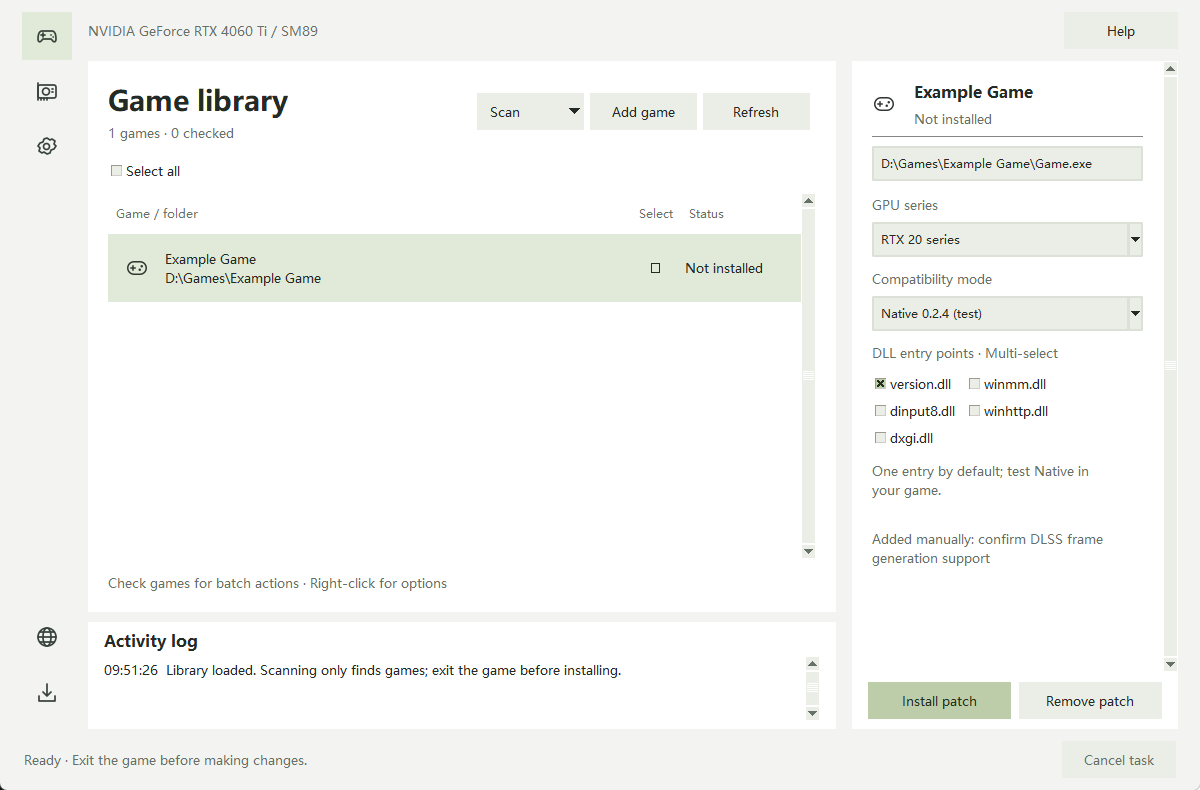
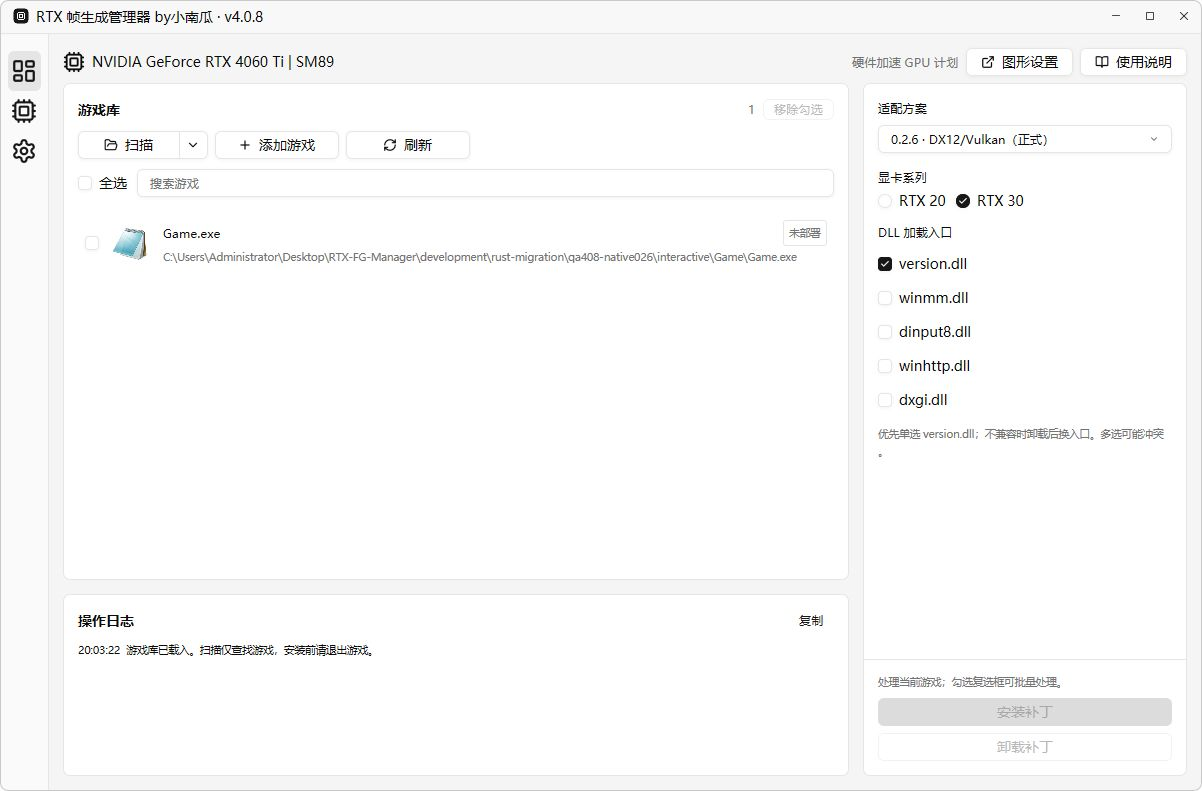
Document Rust GPUI manager 4.0.8 and Native 0.2.6 compatibility

diff --git a/README.md b/README.md
@@ -2,6 +2,8 @@
 
 [English](README.md) · [简体中文](README.zh-CN.md)
 
+The screenshot shows the Chinese interface; English and three other UI languages are available in Settings.
+
 <p align="center">
   <img src="docs/screenshot-home.png" alt="RTX Frame Generation Manager home screen" width="820" />
 </p>
@@ -9,63 +11,80 @@
   <a href="https://github.com/pandaligx/RTX-FG-Manager/releases/latest"><img alt="release" src="https://img.shields.io/github/v/release/pandaligx/RTX-FG-Manager"></a>
   <a href="https://github.com/pandaligx/RTX-FG-Manager/releases/latest"><img alt="downloads" src="https://img.shields.io/github/downloads/pandaligx/RTX-FG-Manager/total"></a>
   <img alt="platform" src="https://img.shields.io/badge/platform-Windows_x64-0078D6?logo=windows&logoColor=white">
-  <img alt="language" src="https://img.shields.io/badge/language-Python-3776AB?logo=python&logoColor=white">
+  <img alt="language" src="https://img.shields.io/badge/language-Rust-DEA584?logo=rust&logoColor=white">
   <a href="LICENSE"><img alt="manager license" src="https://img.shields.io/badge/manager_license-MIT-blue"></a>
 </p>
 
-A Windows desktop tool for managing RTX 20/30 frame-generation compatibility patches. This is a **binary distribution repository**: releases, documentation, screenshots, update metadata and publishing automation. Manager source code is not published here. Third-party components retain their own licenses.
+A Windows frame-generation patch manager for RTX 20/30 GPUs, built with a **Rust core and native GPUI interface**. This is a **binary distribution repository** containing releases, documentation, screenshots and update assets. Manager source code is not published; third-party components retain their own licenses.
 
 ## Download
 
 - [GitHub Releases](https://github.com/pandaligx/RTX-FG-Manager/releases/latest)
-- [Gitee Releases · China mirror](https://gitee.com/pandaligx/RTX-FG-Manager/releases)
+- [Gitee Releases — China mirror](https://gitee.com/pandaligx/RTX-FG-Manager/releases)
 
-Download the signed `RTXManager-v<version>-x64.exe` from a published release and run it. Python and aria2 do not need a separate installation. Release notes describe the changes and any known limitations. A release is available only after its EXE and update manifest have been uploaded; development candidates are not releases.
+Run the signed `RTXManager-v<version>-x64.exe` directly on Windows 10/11 x64. No Python, Rust, CUDA Toolkit or separate aria2 installation is required. Frame-generation compatibility depends on the GPU, driver and game.
 
 ## Features
 
-- Chinese, English, Russian, Japanese and Korean. First launch follows Windows language; a manual choice is saved. Change it with the globe button or in Settings.
-- Left-side icon navigation with tooltips, light/dark/system themes and adaptable window layout.
-- Add game EXEs or scan a folder, drive or all drives. Game library and operation log stay together.
-- Default: **0.2.5 · DX12/Vulkan (Stable)** with `version.dll`. The legacy R2/SM86 modes remain as **Initial · First GitHub version**. Native supports `version.dll`, `winmm.dll`, `dinput8.dll`, `winhttp.dll` and `dxgi.dll`; select one proxy at a time.
-- Optional **0.2.4 · 5X/6X · DX12/Vulkan (Experimental)** profile. 6X is a capability limit requested by the game, not an automatic game-menu addition; see release notes for validation scope.
-- Help in five languages and hardware-accelerated GPU scheduling detection. Confirmed disabled systems receive a reminder; enabled systems receive no popup. Open Windows graphics settings directly from the app.
-- Install and remove recognized project files, retaining unrelated or unidentified game files. INI edits do not prevent normal cleanup. Incomplete operations show a warning and remain in the log.
-- Background update checks and optional automatic downloads through embedded aria2. Installation needs confirmation. Download integrity and the manager publisher's Windows signature are verified before replacement; the previous EXE is retained as a rollback copy.
+- Chinese, English, Russian, Japanese and Korean; follows the system language initially and remembers manual selection in Settings. Light, dark and system themes.
+- Rust background tasks for scanning, deployment, system operations and updates; native GPUI components/icons, centered launch, scaling-aware layout and higher-resolution executable icons.
+- Directory, drive and full-drive scans, plus manual EXE selection. Expanded Unreal, Unity and DLSS component discovery; discovery does not establish frame-generation compatibility.
+- Deployment badges in the game library and a persistent activity log. Clicking a row selects the current game; independent checkboxes select batch targets.
+- Single/batch installation, uninstall and removal from the library. Right-click to open a folder or remove a game; double-click to open its folder. Removing a library entry does not uninstall its patch.
+- Single-game deployment avoids redundant confirmations; batch confirmation lists numbered targets. Errors and running-game blockers produce clear warnings.
+- Change/restore Windows GPU display names, with backup migration after driver updates on the same device, fresh driver-value preservation and rollback protection.
+- Help in five languages, shown on first use, and a Graphics settings shortcut. No recurring HAGS detection popup when selecting games.
+- Background update checks, optional automatic downloads through bundled aria2, checksum and publisher-signature verification, confirmed installation and a backup of the previous EXE.
 
-## Our additions, fixes and optimizations to the DLLs
+## Frame-generation schemes
 
-Based on `dlssg_for_sm86`, with these extensions maintained by 小南瓜:
+| Scheme | Graphics API | Maximum multiplier | Proxy choices |
+| --- | --- | --- | --- |
+| **0.2.6 Stable (default)** | DX12 / Vulkan | 4X | Five; version.dll selected by default |
+| **0.2.6 5X/6X Experimental** | DX12 / Vulkan | 6X | Five; version.dll selected by default |
+| Initial · First GitHub version | Original R2/SM86 capabilities | Depends on the original scheme/game | Only the supplied entries are shown |
 
-- **Compatibility fixes:** retain the RTX20 R2 adaptation. Native Fix1 corrects view formats for typeless textures, addressing the reproduced Naraka crash when entering a match with frame generation enabled.
-- **Vulkan support:** connect Vulkan resources to the DX12 inference backend with resource interoperability and synchronization. Each of the five proxies integrates the bridge into a single DLL.
-- **Transfer and scheduling optimizations:** GPU shared transfers, cached resource reuse and combined submissions reduce CPU image staging, repeated allocations and waits. A fallback remains when sharing requirements are unavailable.
-- **Experimental multipliers:** combine the community 5X/6X extension with Fix1 and Vulkan. Games must request these multipliers; Naraka's menu still stops at 4X.
+The five proxies are `version.dll`, `winmm.dll`, `dinput8.dll`, `winhttp.dll` and `dxgi.dll`. Test one at a time; selecting several can conflict and does not guarantee better compatibility. Each proxy includes the bridge, so no external `rtxfg_vk_bridge.dll` is needed. RTX 20 uses SM75; RTX 30 uses SM86.
 
-**0.2.5 is this project's extended compatibility version**, not an upstream release. The 310.1 model and native inference kernels are unchanged. Results depend on the game, GPU and driver; no fixed frame rate or universal compatibility is promised.
+6X is a capability limit requested by the game; it **does not add game-menu options**. Naraka's menu remains limited to 4X even with the experimental scheme.
+
+## Changes to the upstream DLLs
+
+Based on [dlssg_for_sm86](https://github.com/sdli1995/dlssg_for_sm86) Native 0.2.4. **0.2.6 is this project's compatibility-scheme version, not an upstream release number.**
+
+- **Fix1 texture compatibility:** correct typeless SRV/UAV view formats, addressing the reproduced Naraka crash when entering a match with frame generation enabled.
+- **Vulkan integration:** Vulkan resources, DX12 backend interoperability and synchronization, integrated into all five stable and experimental proxies.
+- **Transfer/scheduling improvements:** GPU shared transfers, resource reuse and combined submissions reduce CPU image staging, allocation and waiting; a fallback remains for unavailable sharing capabilities.
+- **0.2.6 startup compatibility:** load D3D12 on demand to avoid premature access to uninitialized host Agility SDK information, addressing the Where Winds Meet startup regression. Process-lifetime protection also addresses immediate-unload crashes found in isolated tests.
+- **Experimental multipliers:** combine the community 5X/6X extension with Fix1, Vulkan and the new startup changes. The initial GitHub scheme remains unchanged.
+
+The **310.1 model and native inference kernels are unchanged**. The scheme number does not mean a newer NVIDIA model. No fixed FPS or universal game compatibility is promised. See [Release notes](https://github.com/pandaligx/RTX-FG-Manager/releases/latest) for changes, validation scope and outstanding issues.
 
 ## Quick start
 
-First check hardware-accelerated GPU scheduling on Windows 10/11 using the app. If disabled, use **Open graphics settings** to enable it; restart Windows when prompted before testing frame generation.
+1. Enable Hardware-accelerated GPU scheduling in Windows Settings → System → Display → Graphics → Change default graphics settings. Labels vary by Windows version. Use the app's Graphics settings shortcut and restart when Windows requests it.
+2. Exit the game completely, then add its actual EXE or select a scan range using the arrow beside Scan. Manual library addition accepts more EXE architectures; installing an x64 patch still requires a compatible executable.
+3. Select the game row, GPU series, scheme and one proxy, then install. For batches, check the games and review the numbered list.
+4. Launch the game and enable its DLSS frame generation and supported multiplier. Closing the manager does not disable the deployed patch.
+5. Exit the game and uninstall before switching schemes or entries. A running-game warning means the uninstall has not completed.
 
-1. Completely exit the game. Add its actual EXE using **Add game**, or use the **Scan** arrow.
-2. Select the game, choose its GPU series and compatibility mode, and install the patch.
-3. Start the game and enable its DLSS frame-generation option. Closing the manager does not remove the patch.
-4. To change mode or DLL entry, exit the game, remove the existing patch, then install again. Test one DLL entry at a time; multiple entries may conflict.
-5. Use **Remove patch** to uninstall. If a game is still running, removal has **not** completed: close it and retry. See **Help** on the home page for more details.
+Cleanup recognizes known project files, edited INIs and re-signed known DLLs, while retaining unrelated and unknown files. **Updating the manager does not update DLLs already installed in games.** Exit the game and redeploy them separately.
 
-Compatibility depends on the game, GPU and driver. A game appearing in the library does not prove that frame generation will work. The GPU-name feature changes Windows display-name fields only; it does not change hardware capabilities or guarantee a name change in games/Task Manager. Reopen the relevant windows or restart Windows if necessary.
+GPU renaming only changes Windows display-name fields, not the actual GPU or CUDA capabilities. Games may read other names; a restart may be required. Device changes and uncertain backups remain protected. Follow game rules and confirm whether third-party patches are permitted, especially with anti-cheat software.
 
-## Updates and preferences
+## Upgrading from 3.7.4
 
-Automatic checks run after startup and every six hours while the app is open. Automatic download is optional and off by default. In automatic source mode, **Windows region China** prefers Gitee; other regions prefer GitHub. You can override this in Settings. If a mirror is unavailable or behind, the updater can use the other site's verified release. This uses the system region, not IP geolocation.
+Upgrade directly to 4.0.8; intermediate builds are not required. Existing games, preferences and deployment records are retained. Old deployment badges are not falsely relabeled as 0.2.6. Diagnostic and compatibility-self-test panels have been removed; the activity log remains.
 
-Settings and the game list are stored in `%LOCALAPPDATA%\RTXFGManager`. Updating the manager preserves these preferences and does not automatically replace patches already installed in games. Updates never silently close a game or restart Windows.
+Preferences and games are stored in `%LOCALAPPDATA%\RTXFGManager`. Change language, theme and update source in Settings. Automatic checks are enabled by default; automatic downloads are off. Automatic routing uses the **Windows system region**: Gitee first for China, GitHub elsewhere, with manual selection and fallback for unavailable/outdated endpoints. This is not IP geolocation.
 
-## Credits and links
+## Credits and contact
 
-- [dlssg_for_sm86 · sdli1995](https://github.com/sdli1995/dlssg_for_sm86)
-- [aria2](https://github.com/aria2/aria2) · separate downloader, GPL-2.0-or-later
-- [Website](https://lgxng.cn/) · [GitHub](https://github.com/pandaligx) · [Bilibili](https://b23.tv/5mHCHFn)
+- [Github · sdli1995](https://github.com/sdli1995/dlssg_for_sm86): upstream project.
+- [pipotoufikxyz-lgtm](https://github.com/pipotoufikxyz-lgtm/dlssg_for_sm86): community 5X/6X extension.
+- [GPUI](https://gpui.rs/) · [GPUI Component](https://github.com/longbridge/gpui-component): native UI and components.
+- [aria2](https://github.com/aria2/aria2): independent downloader.
+- [Bilibili · 大大大怪将军阁下](https://space.bilibili.com/608531525): testing assistance.
+- [Website](https://lgxng.cn/) · [GitHub](https://github.com/pandaligx) · [Bilibili](https://b23.tv/5mHCHFn).
 
-See [third-party notices](THIRD_PARTY_NOTICES.txt) for component attribution and license boundaries. The manager's MIT license does not relicense NVIDIA or other third-party material. This project is not affiliated with NVIDIA or the credited upstream projects.
+See [third-party notices](THIRD_PARTY_NOTICES.txt). The manager license does not relicense NVIDIA or other third-party material. This project is not officially affiliated with NVIDIA or the upstream projects.

diff --git a/README.zh-CN.md b/README.zh-CN.md
@@ -12,63 +12,80 @@
   <a href="https://github.com/pandaligx/RTX-FG-Manager/releases/latest"><img alt="版本" src="https://img.shields.io/github/v/release/pandaligx/RTX-FG-Manager"></a>
   <a href="https://github.com/pandaligx/RTX-FG-Manager/releases/latest"><img alt="下载量" src="https://img.shields.io/github/downloads/pandaligx/RTX-FG-Manager/total"></a>
   <img alt="平台" src="https://img.shields.io/badge/platform-Windows_x64-0078D6?logo=windows&logoColor=white">
-  <img alt="开发语言" src="https://img.shields.io/badge/language-Python-3776AB?logo=python&logoColor=white">
+  <img alt="开发语言" src="https://img.shields.io/badge/language-Rust-DEA584?logo=rust&logoColor=white">
   <a href="LICENSE"><img alt="管理器许可" src="https://img.shields.io/badge/manager_license-MIT-blue"></a>
 </p>
 
-管理 RTX 20/30 系列显卡帧生成适配补丁的 Windows 工具。本仓库是**软件发行仓库**，仅提供程序、文档、截图、更新清单和发布同步配置，不公开管理器源码。第三方组件保留各自许可。
+管理 RTX 20/30 系列帧生成适配补丁的 Windows 工具，采用 **Rust 核心 + GPUI 原生界面**。本仓库是**软件发行仓库**，提供 EXE、文档、截图和更新附件，不公开管理器源码；第三方组件保留各自许可。
 
 ## 下载
 
 - [GitHub Releases](https://github.com/pandaligx/RTX-FG-Manager/releases/latest)
 - [Gitee Releases · 国内镜像](https://gitee.com/pandaligx/RTX-FG-Manager/releases)
 
-下载正式 Release 中已签名的 `RTXManager-v<版本>-x64.exe`，直接运行，无需另装 Python 或 aria2。每个版本的变化和已知限制放在 Release 更新说明中。只有 EXE 和更新清单上传完整后才会提供更新，开发待签名包不属于正式发行版。
+下载已签名的 `RTXManager-v<版本>-x64.exe`，直接运行，无需安装 Python、Rust、CUDA Toolkit 或独立 aria2。支持 Windows 10/11 x64；帧生成兼容性取决于显卡、驱动和游戏。
 
 ## 主要功能
 
-- 中文、英文、俄文、日文、韩语；首次跟随 Windows 语言，手动选择后自动记忆。点击左下角地球图标或进入设置即可切换。
-- 左侧图标导航，悬停显示名称；浅色、深色和跟随系统主题，适配窗口尺寸和系统缩放。
-- 添加游戏 EXE，或选择目录、磁盘、全盘扫描；主页直接显示游戏库和操作日志。
-- 默认 **0.2.5 · DX12/Vulkan（正式）** 和 `version.dll`，保留“初始方案 · GitHub 第一版”（R2/SM86）。Native 支持 `version.dll`、`winmm.dll`、`dinput8.dll`、`winhttp.dll`、`dxgi.dll` 五种入口，每次建议选择一个。
-- 可选 **0.2.4 · 5X/6X · DX12/Vulkan（实验）**。6X 是倍率上限，实际倍率由游戏请求，不会自动增加游戏菜单；具体验证范围见 Release 说明。
-- 五语言使用说明与硬件加速 GPU 计划检测；确认未开启时弹窗提醒，已开启不提示，可直接打开 Windows 图形设置。
-- 安装及卸载本项目可识别的文件；修改 INI 后仍可正常清理，保留游戏自带和无法确认归属的其他文件。未完成操作会弹窗提醒，并显示在日志中。
-- 后台检查更新，可选自动下载，内置 aria2。安装前需要确认，下载后校验完整性和管理器发布者签名，更新时保留旧 EXE 备份。
+- 中文、英文、俄文、日文、韩语；默认跟随系统语言，在设置中手动选择后记忆。支持浅色、深色和跟随系统主题。
+- Rust 后台处理扫描、安装卸载、系统操作和更新；GPUI 原生界面及组件图标，支持窗口居中、系统缩放与布局适配。游戏图标优先读取高分辨率资源。
+- 扫描目录、磁盘或全盘，也可手动添加游戏 EXE。补充 Unreal、Unity、DLSS 组件识别线索；扫描结果不代表已经验证帧生成兼容。
+- 游戏库显示部署方案/入口标签，主页直接展示操作日志。点击游戏行选中当前游戏；前方复选框用于批量操作，两者独立。
+- 支持单个与批量安装、卸载、移出游戏库；右键打开目录或移除，双击打开目录。移出游戏库不等于卸载补丁。
+- 单个安装/卸载不再重复确认；批量操作显示编号目标列表。失败或游戏未退出会明确警告，不能当作操作成功。
+- 显卡页面支持修改/还原 Windows 显示名称。同一显卡更新驱动后可迁移备份，保留新驱动名称，并安全处理工具遗留的别名。
+- 五语言使用说明，首次使用自动展示；主页提供“图形设置”按钮。不会在每次选游戏时重复检测或弹出硬件加速 GPU 计划提醒。
+- 后台检查更新、可选自动下载，内置 aria2；校验下载摘要及发布者签名，安装前确认，并保留旧 EXE 备份。
+
+## 帧生成方案
+
+| 方案 | 图形接口 | 倍率上限 | DLL 入口 |
+| --- | --- | --- | --- |
+| **0.2.6 正式（默认）** | DX12 / Vulkan | 4X | 五种可选，默认 version.dll |
+| **0.2.6 5X/6X 实验** | DX12 / Vulkan | 6X | 五种可选，默认 version.dll |
+| 初始方案 · GitHub 第一版 | 沿用原 R2/SM86 能力 | 取决于原方案和游戏 | 仅显示随该方案提供的入口 |
+
+五种入口为 `version.dll`、`winmm.dll`、`dinput8.dll`、`winhttp.dll`、`dxgi.dll`，建议每次仅选一个。多选可能产生冲突，不代表兼容性更好。每个代理已集成桥接，无需外接 `rtxfg_vk_bridge.dll`。RTX20 使用 SM75 路径，RTX30 使用 SM86 路径。
+
+6X 是可请求的倍率上限，**不会自动添加游戏菜单**。例如永劫无间菜单最高 4X，选择实验方案也不会出现 5X/6X。
 
 ## 本项目对原有 DLL 的改进
 
-基于 `dlssg_for_sm86`，由小南瓜维护以下扩展与修复：
+基于 [dlssg_for_sm86](https://github.com/sdli1995/dlssg_for_sm86) Native 0.2.4，由本项目维护兼容扩展；**0.2.6 是本项目方案版本，不是上游版本号**。
 
-- **兼容修复**：保留 RTX20 的 R2 适配；Native Fix1 修复无类型纹理的视图格式处理，解决已复现的永劫无间开启帧生成后进对局崩溃问题。
-- **新增 Vulkan**：接入 Vulkan 资源与 DX12 推理后端，补充资源互操作和同步；五种代理均集成为单 DLL，无需额外桥接 DLL。
-- **传输与调度优化**：使用 GPU 共享传输、资源缓存复用与合并提交，减少 CPU 图像中转、重复分配及等待；不满足共享条件时保留回退路径。
-- **实验倍率扩展**：在社区 5X/6X 扩展基础上合入 Fix1 和 Vulkan；游戏需主动请求对应倍率，永劫无间菜单最高仍为 4X。
+- **纹理兼容（Fix1）**：修正无类型纹理的 SRV/UAV 视图格式处理，解决已复现的永劫无间开启帧生成后进对局崩溃。
+- **Vulkan 接入**：补充 Vulkan 资源接入、DX12 后端互操作与同步，集成至正式/实验方案的全部五种代理。
+- **传输与调度优化**：GPU 共享传输、资源缓存复用、合并提交，减少 CPU 图像中转、重复分配和等待；不具备共享条件时保留回退路径。
+- **0.2.6 启动兼容修复**：延迟至实际需要时加载 D3D12，避免游戏 Agility SDK 信息尚未初始化时提前触发加载，针对燕云十六声启动回归；增加进程生命周期保护，修复测试中发现的刚加载即卸载崩溃。
+- **实验倍率扩展**：基于社区 5X/6X 扩展合入 Fix1、Vulkan 及本次启动修复。初始 GitHub 第一版保持原有文件。
 
-这里的 **0.2.5 是本项目的扩展方案版本**，不是上游发行版本；沿用 310.1 模型与原生推理内核。实际效果取决于游戏、显卡和驱动，不承诺固定帧率或所有游戏兼容。
+模型仍为 **310.1**，原生推理内核未更新。不能把本项目版本号理解成更新了 NVIDIA 模型，也不承诺固定帧率或所有游戏兼容。完整改动、测试范围与待验证问题见 [Release 更新说明](https://github.com/pandaligx/RTX-FG-Manager/releases/latest)。
 
 ## 简单使用
 
-先按软件提示检查 Windows 10/11 的“硬件加速 GPU 计划”，未开启时通过“打开图形设置”开启；提示需要重启时，重启后再测试帧生成。
+1. 在 Windows 设置 → 系统 → 屏幕 → 显示卡 → 更改默认图形设置中开启“硬件加速 GPU 计划”；不同系统版本名称略有差异。可点击主页“图形设置”，按 Windows 提示重启。
+2. 完全退出游戏，添加游戏本体 EXE，或通过扫描旁的箭头选择范围。手动添加允许更多 EXE 架构，但安装 x64 补丁时仍检查兼容性。
+3. 点击游戏行，选择显卡系列、方案和一个 DLL 入口，再安装补丁。批量处理时勾选多个游戏，核对编号名单。
+4. 启动游戏，在游戏内开启 DLSS 帧生成及其支持的倍率。关闭管理器不会影响已安装补丁。
+5. 切换方案或入口前，退出游戏、卸载旧补丁再安装。若提示游戏仍运行，代表尚未完成卸载，请退出后重试。
 
-1. 完全退出游戏，点击“添加游戏”选择游戏本体 EXE，或使用“扫描”旁的箭头选择范围。
-2. 选中游戏，选择显卡系列和适配方案，点击安装补丁。
-3. 启动游戏，在游戏中开启 DLSS 帧生成。关闭管理器不影响已安装补丁。
-4. 切换方案或 DLL 入口前，先退出游戏、卸载补丁，再重新安装。建议逐个入口测试；多选属于试验功能，可能冲突。
-5. 点击“卸载补丁”移除适配。如果提示游戏仍在运行，代表**尚未卸载成功**，请退出后重试。主页“使用说明”中有更详细介绍。
+卸载可识别本项目新旧补丁、修改过的 INI 和重新签名的已识别 DLL，保留游戏自带和未知文件。更新管理器**不会自动更新游戏中的 DLL**，需自行退出游戏并重新部署。
 
-效果取决于游戏、显卡及驱动，扫描到游戏不代表已经验证兼容。显卡名称功能只修改 Windows 显示名称字段，不改变真实硬件能力，也不能保证游戏或任务管理器采用新名称；可重新打开相关窗口，必要时重启 Windows 检查。
+显卡名称修改只影响 Windows 显示名称字段，不改变真实硬件或 CUDA 能力；游戏是否采用新名称取决于其读取方式，可能需要重启。换卡或无法可靠识别备份时仍保留保护。请遵守游戏规则，带反作弊的游戏应先确认是否允许第三方补丁。
 
-## 更新和设置
+## 从 3.7.4 升级
 
-默认启动后自动检查更新，软件运行期间每六小时检查一次；自动下载默认关闭，可在设置中启用。自动线路按 **Windows 系统地区**选择：中国优先 Gitee，其余地区优先 GitHub，也可手动指定。镜像不可用或版本落后时，会尝试另一站点的有效版本；这不是根据 IP 定位判断地区。
+可直接升级到 4.0.8，无需安装中间版本。保留已有游戏列表、偏好和部署记录；旧补丁标签不会因管理器升级而自动变成 0.2.6。诊断日志与兼容性自检面板已移除，主页操作日志保留。
 
-设置和游戏列表保存在 `%LOCALAPPDATA%\RTXFGManager`。更新管理器会保留偏好，不会自动替换游戏内已部署的补丁，也不会擅自关闭游戏或重启电脑。
+设置和游戏列表保存在 `%LOCALAPPDATA%\RTXFGManager`。语言、主题、更新线路等在设置页调整；默认自动检查更新、自动下载关闭。自动线路按 **Windows 系统地区**选择：中国优先 Gitee，其余地区优先 GitHub，也可手动指定；可用性或版本异常时尝试另一站点。这不是 IP 定位。
 
 ## 致谢与联系
 
-- [dlssg_for_sm86 · sdli1995](https://github.com/sdli1995/dlssg_for_sm86)
-- [aria2](https://github.com/aria2/aria2)：独立下载工具，GPL-2.0-or-later
-- [个人网站](https://lgxng.cn/) · [GitHub](https://github.com/pandaligx) · [哔哩哔哩](https://b23.tv/5mHCHFn)
+- [Github · sdli1995](https://github.com/sdli1995/dlssg_for_sm86)：上游项目。
+- [pipotoufikxyz-lgtm](https://github.com/pipotoufikxyz-lgtm/dlssg_for_sm86)：社区 5X/6X 扩展。
+- [GPUI](https://gpui.rs/) · [GPUI Component](https://github.com/longbridge/gpui-component)：原生界面与组件。
+- [aria2](https://github.com/aria2/aria2)：独立下载工具。
+- [哔哩哔哩 · 大大大怪将军阁下](https://space.bilibili.com/608531525)：协助测试。
+- [个人网站](https://lgxng.cn/) · [GitHub](https://github.com/pandaligx) · [哔哩哔哩](https://b23.tv/5mHCHFn)。
 
-组件许可及归属见 [第三方声明](THIRD_PARTY_NOTICES.txt)。管理器的 MIT 许可不会更改 NVIDIA 及其他第三方材料的许可；本项目与 NVIDIA、上述上游项目没有官方隶属关系。
+许可与归属见 [第三方声明](THIRD_PARTY_NOTICES.txt)。管理器许可不改变 NVIDIA 或其他第三方材料的权利；本项目与 NVIDIA 或上游项目无官方隶属关系。
